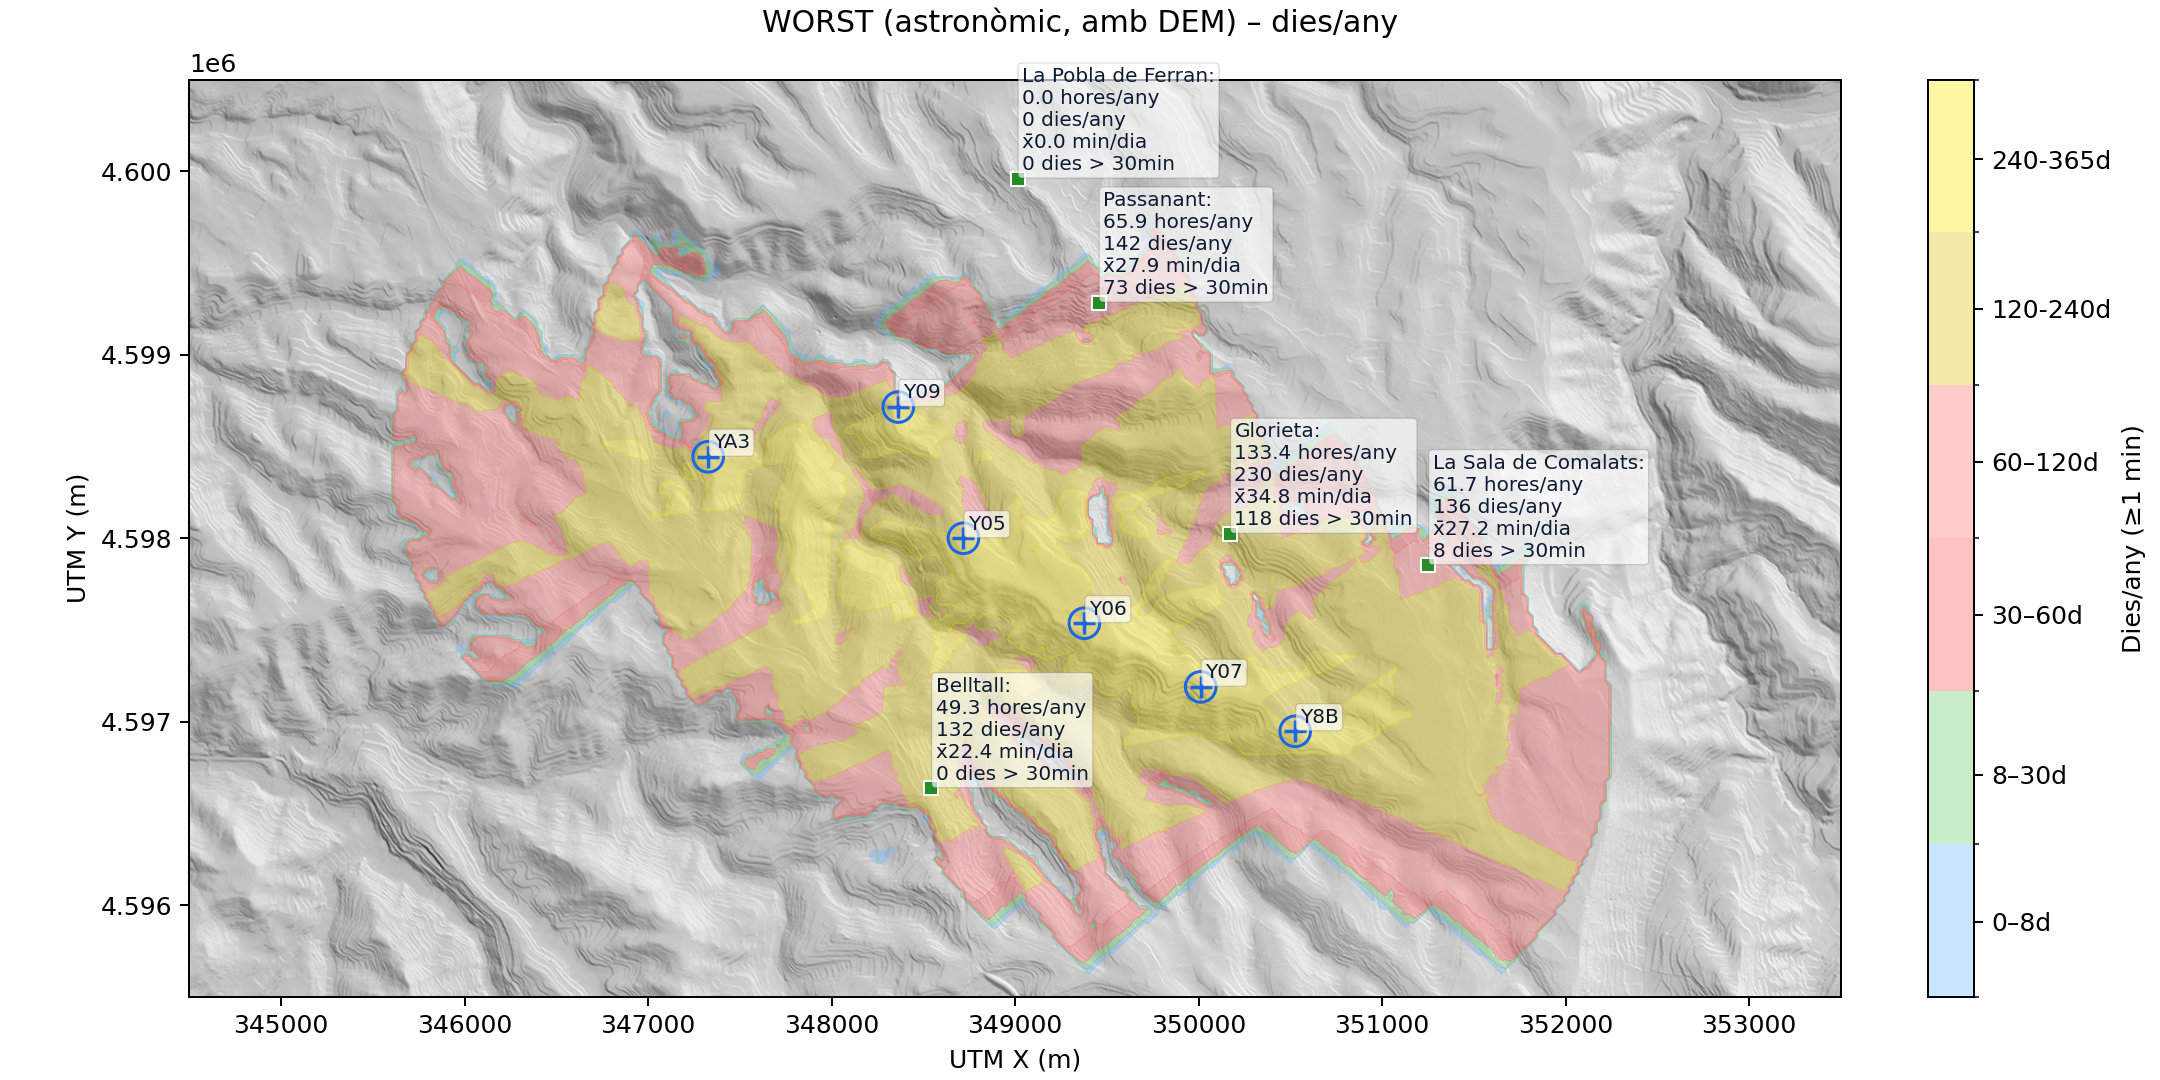
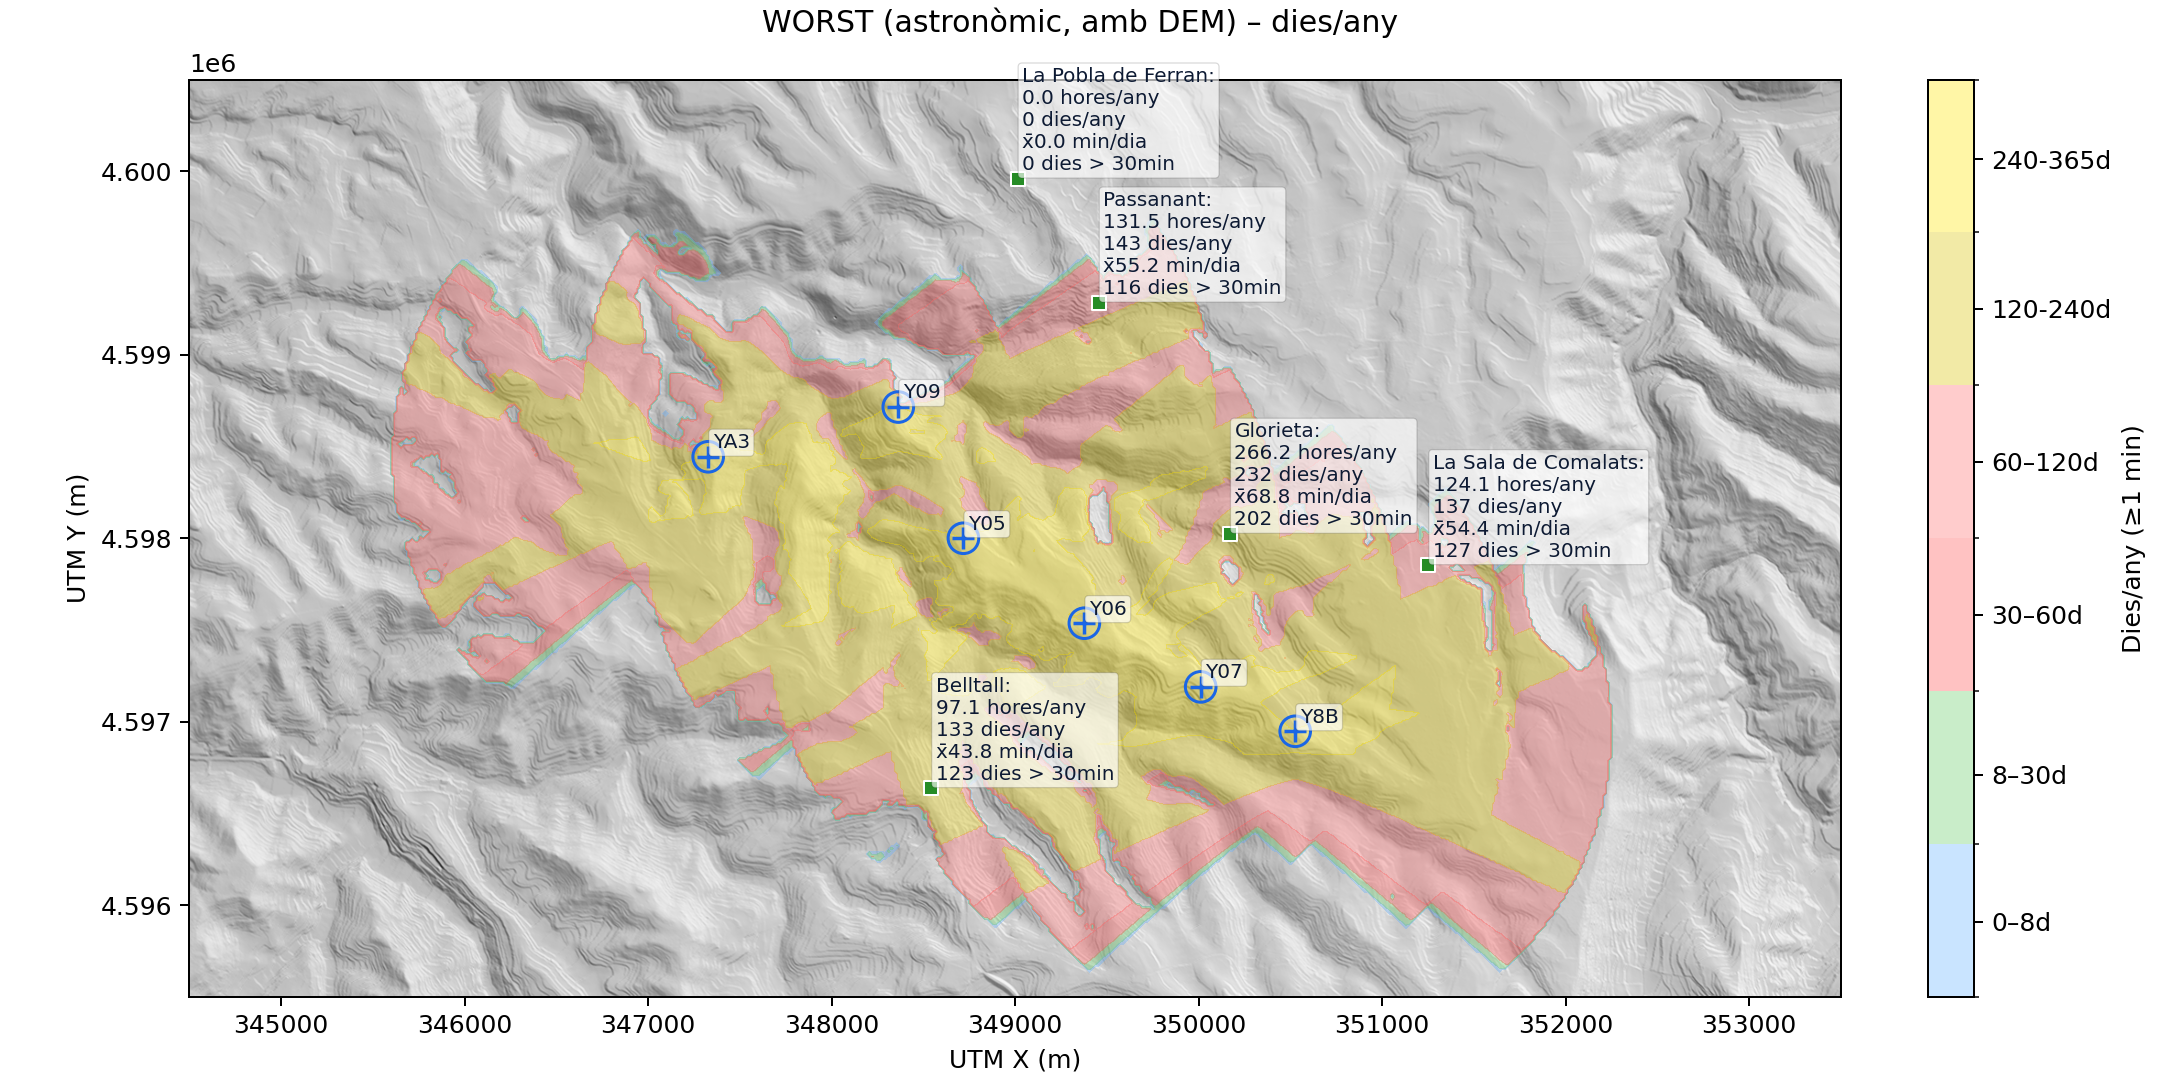
Update and output

diff --git a/assess/shadow-flicker-assessment.py b/assess/shadow-flicker-assessment.py
@@ -1239,34 +1239,6 @@ def compute_shadow_flicker_month(scen_name, month, args,
     if current_day is not None:
         flush_day()
 
-    # Derivats per receptor: dies amb superació i màxim diari
-    # over30_days_R   = defaultdict(int)     # #dies amb mins >= MAX_MIN_PER_DAY (it's normally 30min + something)
-    # max_day_min_R   = defaultdict(float)   # màxim de minuts en 1 dia
-    # max_day_date_R  = {}                   # data del màxim        
-    
-    # Recorre totes les claus (rid, date)
-    # for (rid, dte), mins in acc_min_day_R.items():
-        # acccumulate using >= as we can suppose that most of the values even when exactly 30min
-        # have a seconds remainder pushing the value over the limit 3min 0sec will be statistically neglectable
-    #    if mins > MAX_MIN_PER_DAY:
-    #        over30_days_R[rid] += 1
-            
-    #    if mins > max_day_min_R[rid]:
-    #        max_day_min_R[rid]  = mins
-    #        max_day_date_R[rid] = dte
-            
-    # Derivats raster: minuts/dia afectat
-    #with np.errstate(divide='ignore', invalid='ignore'):
-    #    minutes_per_day_grid = np.where(acc_days_grid > 0,
-    #                                    acc_min_grid / acc_days_grid,
-    #                                    0.0)
-
-    # Derivats receptors: minuts/dia
-    #minutes_per_day_R = {}
-    #for rid, mins in acc_min_R.items():
-    #    d = acc_days_R.get(rid, 0)
-    #    minutes_per_day_R[rid] = (mins / d) if d > 0 else 0.0
-
     # Timing resum
     if ENABLE_TIMING and timing is not None:
         total_ms = timing["total_ms"]; total_calls = timing["total_calls"]
@@ -1485,24 +1457,33 @@ def draw_turbines_and_receptors(ax, turbines, receptors, res, mode,
 
     
     for (nuc, rid, rx, ry, hrec) in receptors:
-        txth = "n/a"
-        txtd = "n/a"
-        txtm = "n/a"
-        v_min = float(mins_dict.get(rid, 0.0))
-        value = v_min/60.0
-        txth = f"{value:.1f} hores/any"
-        value = int(days_dict.get(rid, 0))
-        txtd = f"{value:d} dies/any"
-        value = float(mpd_dict.get(rid, 0.0))
-        txtm = f"x̄{value:.1f} min/dia"
+        #txth = "n/a"
+        txtdata = "n/a"
+        #txtm = "n/a"
+        if mode == "hours":            
+            v_min = float(mins_dict.get(rid, 0.0))
+            value = format_eu((v_min/60.0), 1)
+            txtdata = f"{value} hores/any"
+            print(txtdata)
+        if mode == "days":            
+            value = int(days_dict.get(rid, 0))
+            txtdata = f"{value:d} dies/any"
+            print(txtdata)
+        if mode == "minuts":
+            value = format_eu((float(mpd_dict.get(rid, 0.0))), 1)
+            txtdata = f"x̄{value} min/dia"
+            print(txtdata)
+                              
         value = int(over30_dict.get(rid, 0.0))
-        txto = f"{value} dies > {int(MAX_MIN_PER_DAY)}min"
+        txto = f"{value:d} dies > {int(MAX_MIN_PER_DAY)}min"
+        txtutmx = f"UTM X: {rx}"
+        txtutmy = f"UTM Y: {ry}"
             
         ax.scatter([rx], [ry], marker='s', s=RECEPT_MS,
                    facecolor=CLR_RECEPTOR, edgecolor='white', linewidths=0.8,
                    zorder=52)
         if show_rec_labels:
-            ax.text(rx + LABEL_DX, ry + LABEL_DY, f"{nuc}:\n{txth}\n{txtd}\n{txtm}\n{txto}", # sense :{rid}
+            ax.text(rx + LABEL_DX, ry + LABEL_DY, f"{nuc}:\n{txtdata}\n{txto}\n{txtutmx}\n{txtutmy}", # sense :{rid}
                     fontsize=LABEL_FONTSIZE, color=CLR_RECEPT_LABEL,
                     ha='left', va='bottom', zorder=58,
                     bbox=dict(boxstyle='round,pad=0.2',
@@ -1516,9 +1497,6 @@ def plot_all_maps(res, title_prefix="Shadow Flicker", file_suffix=""):
     D = res["acc_days_grid"].astype(float)
     MPD = res["minutes_per_day_grid"]
 
-    # print(res["acc_min_grid"])
-    # print(res["minutes_per_day_grid"])
-    
     fig, ax = plt.subplots(1,1, figsize=(12,6), constrained_layout=True)
     fig.suptitle(f"{title_prefix} – hores/any")
 
@@ -1596,28 +1574,68 @@ def plot_all_maps(res, title_prefix="Shadow Flicker", file_suffix=""):
     result_path = os.path.join(OUTPUT_DIR, f"SHADOW_{YEAR}_MINUTS_DAY_{file_suffix}.png")
     plt.savefig(result_path, dpi=180); plt.close(fig)
 
-    
 def prepare_csv(scen_name, res):
-    # CSV receptors SCENE (hores/dies/minuts/dia)
+    """
+    Exporta per receptor:
+      - Hores_any
+      - Dies_afectats
+      - Minuts/dia(mitjana)
+      - Dies>30min (diari amb criteri > 30 min — ja ho tens implementat)
+      - Max_min_dia i Data_max_dia
+      + Compli/Excés anual segons escenari:
+        WORST     → ANNUAL_LIMIT_ASTR (p.ex. 30 h)
+        REALISTIC → ANNUAL_LIMIT_REAL (p.ex. 8 h)
+    """
     rows = []
-    for (nuc, rid, rx, ry, hrec) in RPTS:
-        mins = res["receptors_min"].get(rid, 0.0)
-        dys  = res["receptors_days"].get(rid, 0)
-        mpd  = res["receptors_mpd"].get(rid, 0.0)
-        over = res["over30_days_R"].get(rid, 0)
-        mxd  = res["max_day_min_R"].get(rid, 0.0)
-        mxd_date = res["max_day_date_R"].get(rid, "")
-        rows.append([nuc, rid, rx, ry, hrec, round(mins/60.0,2), dys, round(mpd,2), over, round(mxd,1), mxd_date])
-    
-    
-    result_path = os.path.join(OUTPUT_DIR, f"SHADOW_{YEAR}_{scen_name}_{EXPORT_SUFFIX}_receptors.csv")
-    
-    write_csv_with_meta(result_path,
-                        ["Nucli","ReceptorID","X","Y","h_rec(m)","Hores_any","Dies_afectats","Minuts/dia(mitjana)",
-                        f"Dies>{int(MAX_MIN_PER_DAY)}min","Max_min_dia","Data_max_dia"],
-                        rows, scen_name)
+    scen_upper = str(scen_name).upper().strip()
 
-# ---------- (10) Exemple d’ús ----------
+    # Límits anuals segons escenari
+    if scen_upper == "WORST":
+        limit_h = float(ANNUAL_LIMIT_ASTR)
+    else:
+        limit_h = float(ANNUAL_LIMIT_REAL)
+
+    for (nuc, rid, rx, ry, hrec) in RPTS:
+        mins_year   = float(res["receptors_min"].get(rid, 0.0))   # minuts acumulats any
+        hours_year  = mins_year / 60.0
+        days_hit    = int(res["receptors_days"].get(rid, 0))
+        mpd         = float(res["receptors_mpd"].get(rid, 0.0))   # minuts/dia mitjana
+        days_over30 = int(res["over30_days_R"].get(rid, 0))       # criteri > 30 min (ja implementat)
+        max_day_min = float(res["max_day_min_R"].get(rid, 0.0))
+        max_day_dt  = res["max_day_date_R"].get(rid, "")
+
+        # Compliment anual
+        annual_ok  = hours_year <= limit_h
+        annual_exc = max(0.0, hours_year - limit_h)
+
+        rows.append([
+            nuc, rid, rx, ry, hrec,
+            round(hours_year, 2),
+            days_hit,
+            round(mpd, 2),
+            days_over30,
+            round(max_day_min, 1),
+            max_day_dt,
+            limit_h,
+            annual_ok,
+            round(annual_exc, 2),
+        ])
+
+    result_path = os.path.join(OUTPUT_DIR, f"SHADOW_{YEAR}_{scen_name}_{EXPORT_SUFFIX}_receptors.csv")
+
+    write_csv_with_meta(
+        result_path,
+        [
+            "Nucli","ReceptorID","X","Y","h_rec(m)","Hores_any",
+            "Dies_afectats","Minuts/dia(mitjana)",
+            f"Dies>{int(MAX_MIN_PER_DAY)}min","Max_min_dia","Data_max_dia",
+            "Límit_h_any","Compl_any","Excés_h_any"
+        ],
+        rows, scen_name
+    )
+    
+
+# ---------- Check for available processing cores ----------
 def get_optimal_workers():
     """
     Retorna un nombre de workers òptim segons la màquina:
